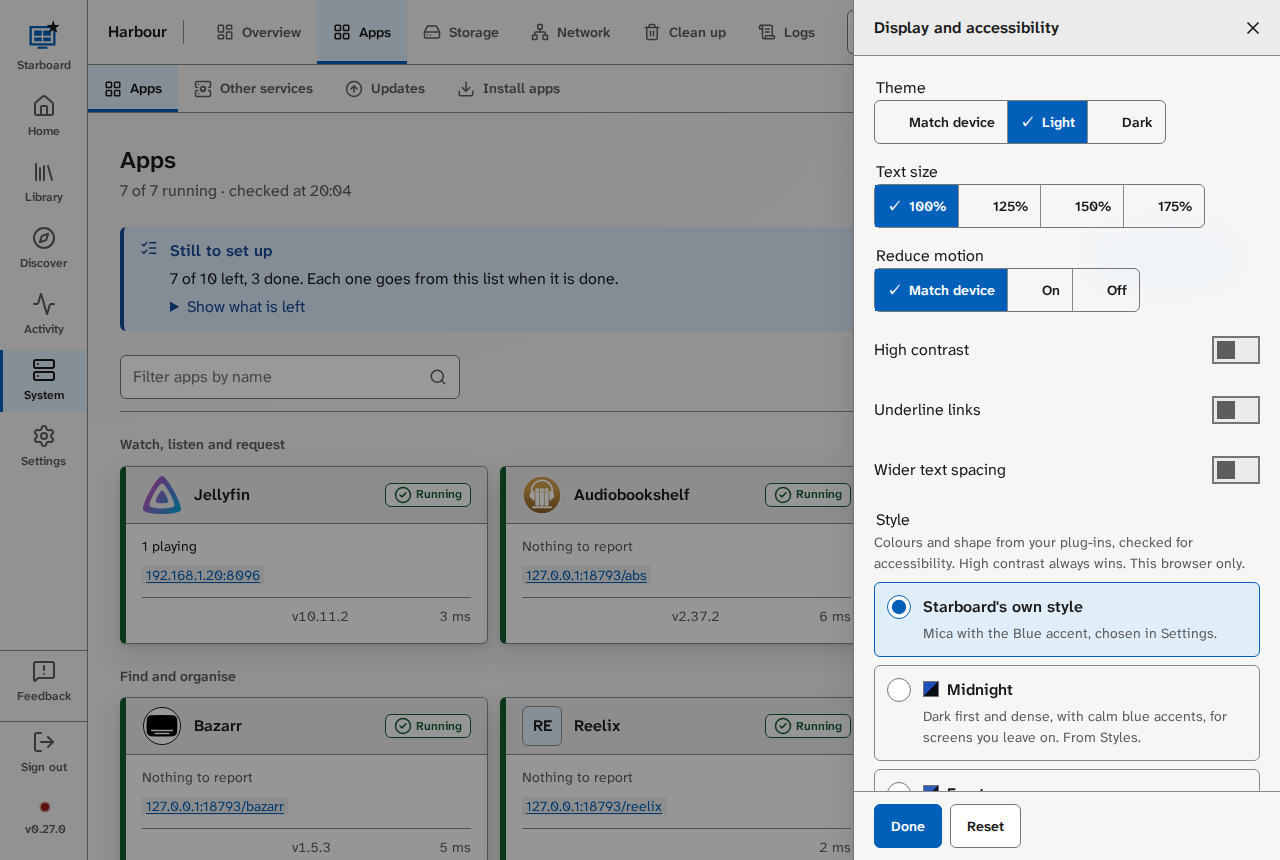
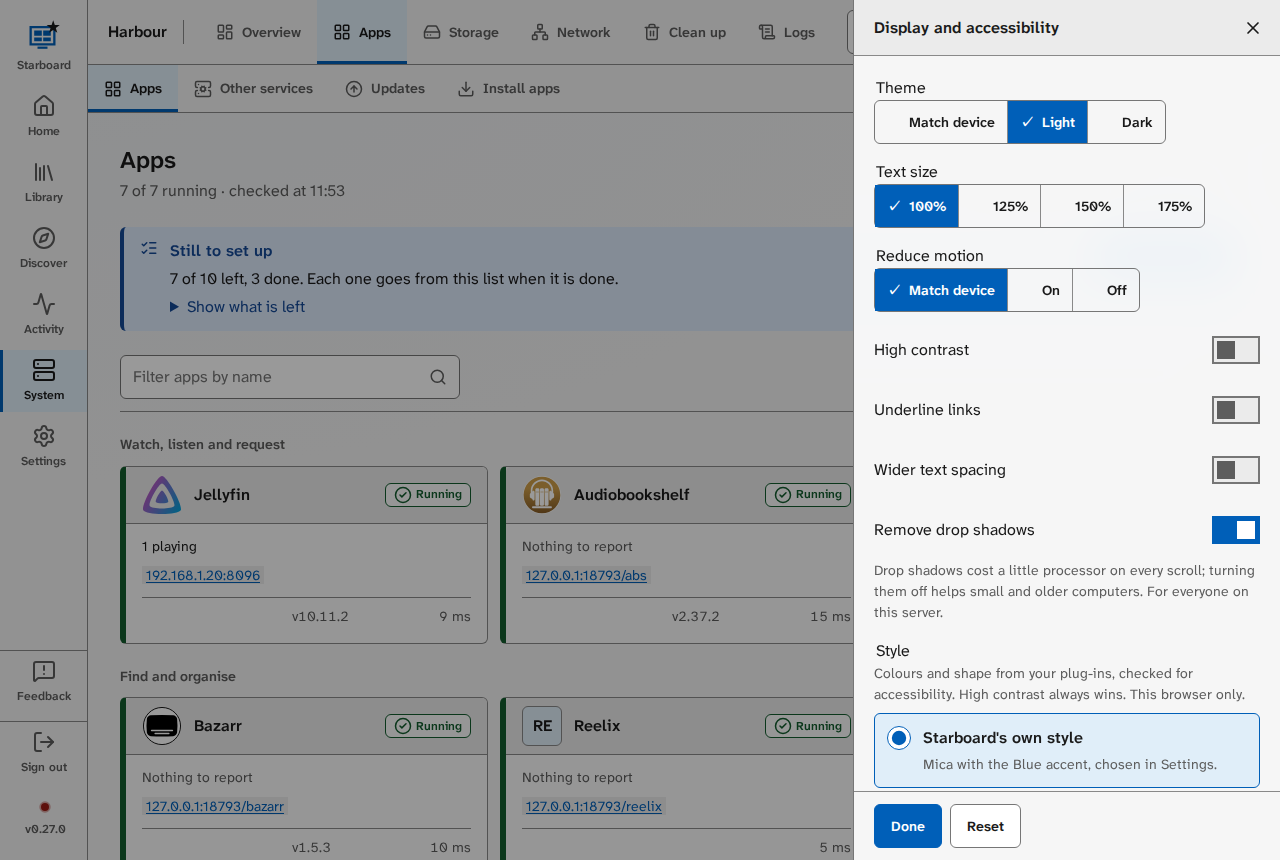
Journeys and keyboard walk for Remove drop shadows; display picture (DASH-536)

Changed region(s): [[0.6875, 0.5744, 1.0, 0.9372], [0.25, 0.2116, 0.2812, 0.2419]]

diff --git a/tests/test_shadows.py b/tests/test_shadows.py
@@ -220,3 +220,31 @@ class SwitchTest(unittest.TestCase):
 
 if __name__ == "__main__":
     unittest.main()
+
+
+class ServerRoundTripTest(unittest.TestCase):
+    """The settings route, the session and the default route, through a real server."""
+
+    def test_the_choice_goes_through_the_api_to_the_session_and_the_default_route(self):
+        from tests.test_server import ServerTest
+        ServerTest.setUpClass()
+        try:
+            t = ServerTest("test_01_pages_need_setup_then_sign_in")
+            t.sign_in()
+            _, s = t.request("GET", "/api/session")
+            self.assertIs(s["shadows_off"], False)  # nothing installed: shadows stay
+            _, d = t.request("GET", "/api/shadows/default?reelix=lite")
+            self.assertTrue(d["off"])
+            self.assertIn("helps small and older computers", d["note"])
+            self.assertFalse(t.request("GET", "/api/shadows/default?reelix=full")[1]["off"])
+            self.assertFalse(t.request("GET", "/api/shadows/default?reelix=none")[1]["off"])
+            resp, _ = t.request("PUT", "/api/config/general", {"shadows_off": True})
+            self.assertEqual(resp.status, 200)
+            self.assertIs(t.request("GET", "/api/session")[1]["shadows_off"], True)
+            cfg = t.request("GET", "/api/config")[1]
+            self.assertTrue(cfg["shadows_off"] and cfg["shadows_answered"])
+            t.request("PUT", "/api/config/general", {"shadows_off": False})
+            self.assertIs(t.request("GET", "/api/session")[1]["shadows_off"], False)
+            self.assertEqual(t.request("PUT", "/api/config/general", {"shadows_off": "maybe"})[0].status, 400)
+        finally:
+            ServerTest.tearDownClass()
